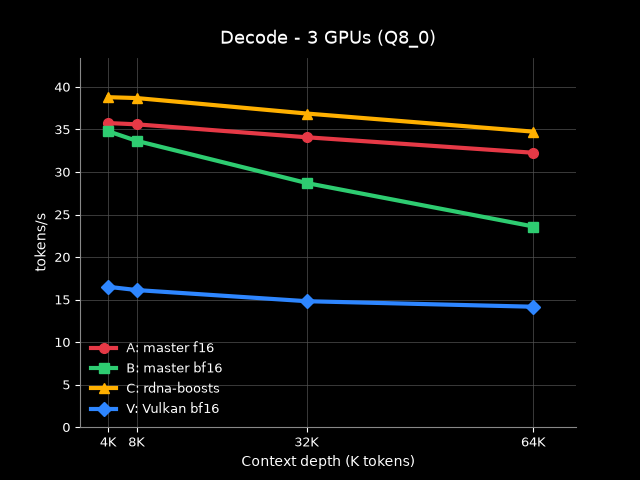
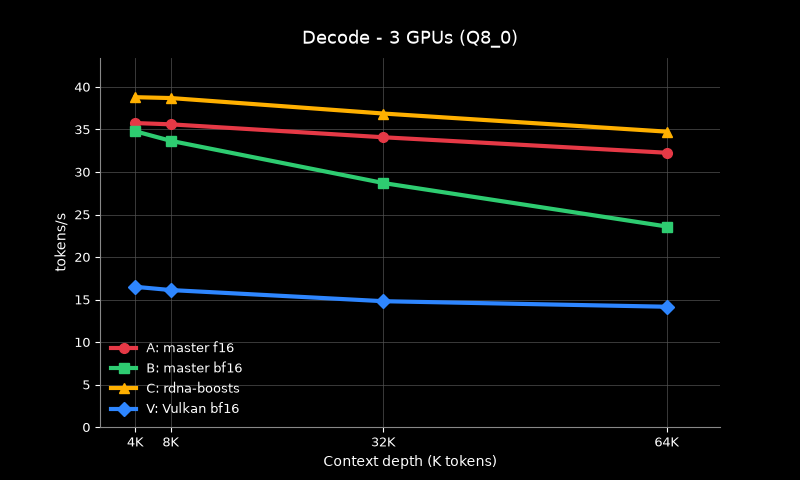
benchmarks: graphs at 800x480, embed links above each results table
Regenerated the six PNGs at 800x480 (was 640x480) and added relative
image links to benchmarks/README.md above each prefill/decode table so
GitHub renders them inline.

diff --git a/benchmarks/scripts/make-graphs.py b/benchmarks/scripts/make-graphs.py
@@ -57,7 +57,7 @@ TABLES = {
 
 
 def plot(name, meta):
-    fig, ax = plt.subplots(figsize=(6.4, 4.8), dpi=100)  # 640 x 480 px
+    fig, ax = plt.subplots(figsize=(8.0, 4.8), dpi=100)  # 800 x 480 px
     fig.patch.set_facecolor("black")
     ax.set_facecolor("black")
 

diff --git a/benchmarks/README.md b/benchmarks/README.md
@@ -41,6 +41,8 @@ stable to <1%.
 
 ### 1 GPU (Q6_K weights, 22.9 GB, 640 MB/s single card)
 
+![Prefill - 1 GPU](graphs/prefill-1gpu.png)
+
 Prefill (t/s)
 
 | backend | 4K | 8K | 32K | 64K |
@@ -50,6 +52,8 @@ Prefill (t/s)
 | C fork | 858.5 | **919.8** | **858.7** | **733.9** |
 | V Vulkan | **909.1** | 894.2 | 767.7 | 638.7 |
 | **C vs A** | +40.0% | +47.4% | +63.3% | +73.7% |
+
+![Decode - 1 GPU](graphs/decode-1gpu.png)
 
 Decode (t/s)
 
@@ -64,6 +68,8 @@ Decode (t/s)
 
 ### 2 GPUs (Q8_0 weights, 29 GB, tensor split)
 
+![Prefill - 2 GPUs](graphs/prefill-2gpu.png)
+
 Prefill (t/s)
 
 | backend | 4K | 8K | 32K | 64K |
@@ -73,6 +79,8 @@ Prefill (t/s)
 | C fork | **1772.4** | **1816.5** | **1645.9** | **1395.0** |
 | V Vulkan | 1126.8 | 1376.1 | 1463.0 | 1235.2 |
 | **C vs A** | +10.8% | +15.7% | +33.2% | +48.2% |
+
+![Decode - 2 GPUs](graphs/decode-2gpu.png)
 
 Decode (t/s)
 
@@ -87,6 +95,8 @@ Decode (t/s)
 
 ### 3 GPUs (Q8_0 weights, 29 GB, tensor split)
 
+![Prefill - 3 GPUs](graphs/prefill-3gpu.png)
+
 Prefill (t/s)
 
 | backend | 4K | 8K | 32K | 64K |
@@ -96,6 +106,8 @@ Prefill (t/s)
 | C fork | **1843.9** | **1930.2** | **1739.6** | **1449.8** |
 | V Vulkan | 1069.4 | 1216.6 | 1144.9 | 960.4 |
 | **C vs A** | +9.9% | +13.8% | +34.3% | +52.1% |
+
+![Decode - 3 GPUs](graphs/decode-3gpu.png)
 
 Decode (t/s)
 
